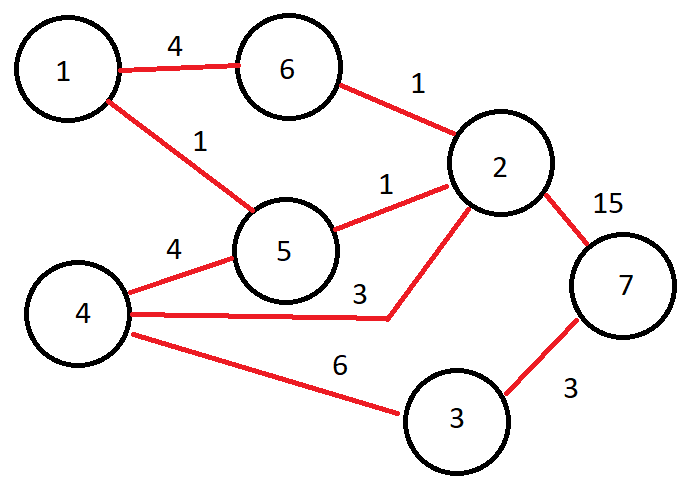
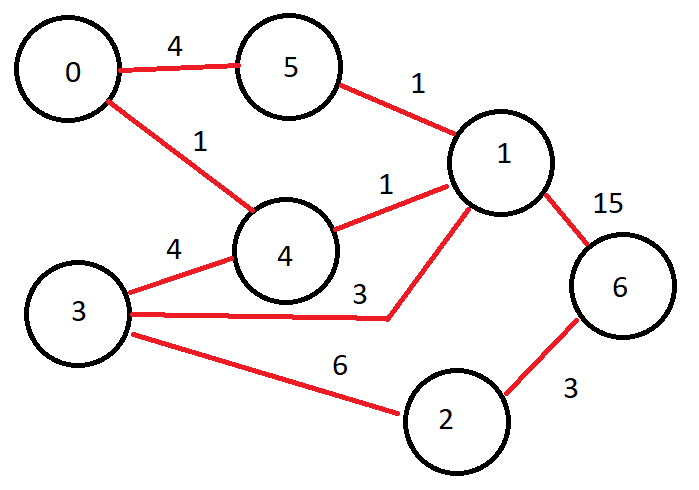
Changed vertex map image, tweaks to dijkstra.py

diff --git a/extras/dijkstra.py b/extras/dijkstra.py
@@ -8,8 +8,13 @@ def dijkstra(graph, start):
     distance[start - 1] = 0 # Distance to start node is 0
     nodes = []
     for i in range(graph.get_number_of_vertices()): # Create list of nodes
-        nodes.append(i)
-        
+        nodes.append(i+1)
+    while len(nodes) > 0:
+        u = distance.index(min(distance))
+        del nodes[u]
+        neighbours = graph.neighbours(u+1)
+        for v in neighbours:
+            alt = 
     return
 
 
